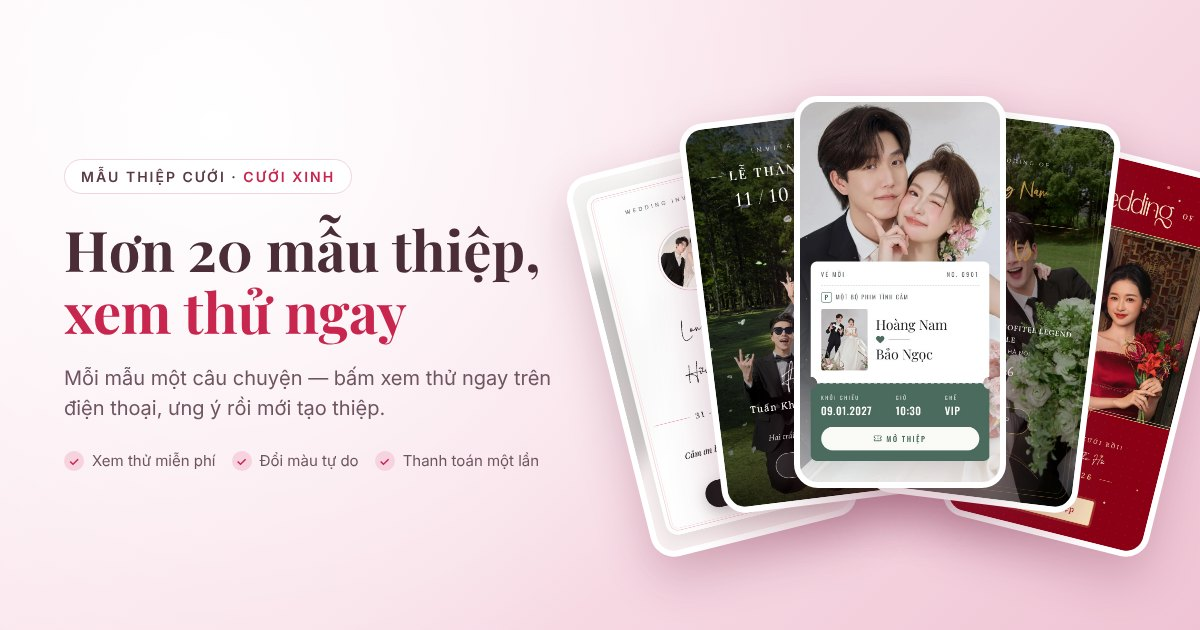
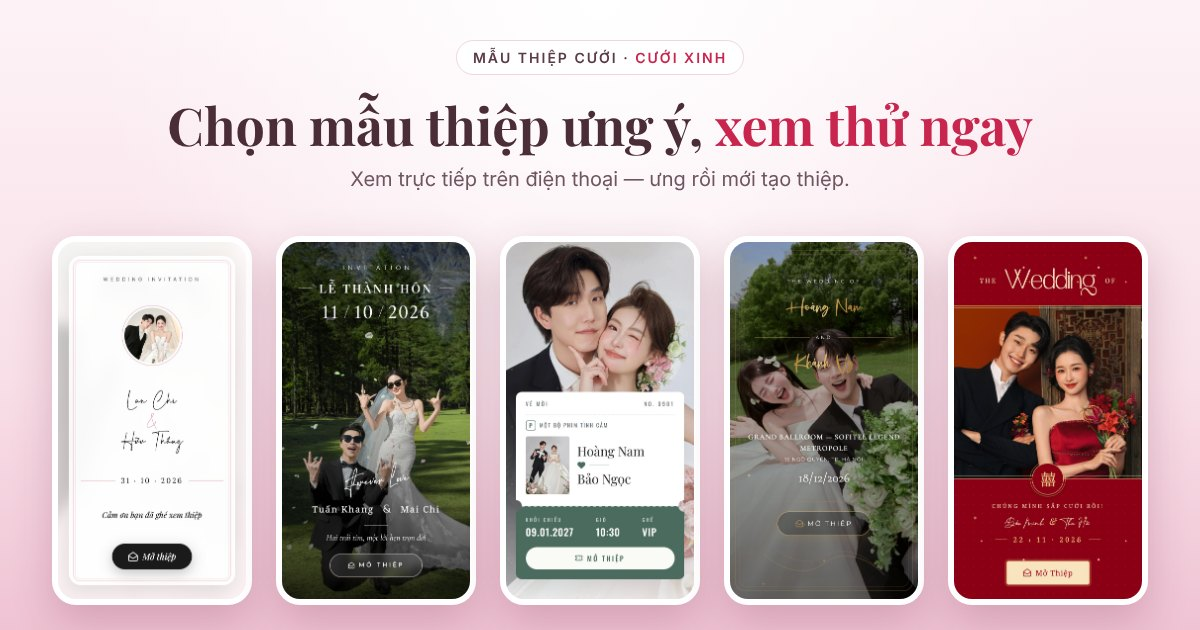
Ảnh og danh mục mẫu: hàng thẻ thẳng, không ghi số mẫu
Claude-Session: https://claude.ai/code/session_01FJvBGmBvDmtuGTmoWqstZ7

diff --git a/theme-template/index.html b/theme-template/index.html
@@ -26,14 +26,14 @@
     <meta property="og:title" content="Mẫu thiệp cưới online đẹp - Cưới Xinh" />
     <meta
       property="og:description"
-      content="Hơn 20 mẫu thiệp cưới online, xem thử trực tiếp trên điện thoại. Ưng ý rồi mới tạo — dùng thử miễn phí, thanh toán một lần."
+      content="Bộ sưu tập mẫu thiệp cưới online, xem thử trực tiếp trên điện thoại. Ưng ý rồi mới tạo — dùng thử miễn phí, thanh toán một lần."
     />
     <meta property="og:image" content="https://cuoixinh.com/assets/images/og-templates.jpg" />
     <meta property="og:image:secure_url" content="https://cuoixinh.com/assets/images/og-templates.jpg" />
     <meta property="og:image:type" content="image/jpeg" />
     <meta property="og:image:width" content="1200" />
     <meta property="og:image:height" content="630" />
-    <meta property="og:image:alt" content="Cưới Xinh - Hơn 20 mẫu thiệp cưới, xem thử ngay" />
+    <meta property="og:image:alt" content="Cưới Xinh - Chọn mẫu thiệp ưng ý, xem thử ngay" />
     <meta name="twitter:card" content="summary_large_image" />
     <meta name="twitter:image" content="https://cuoixinh.com/assets/images/og-templates.jpg" />
     <link rel="preconnect" href="https://fonts.googleapis.com" />
